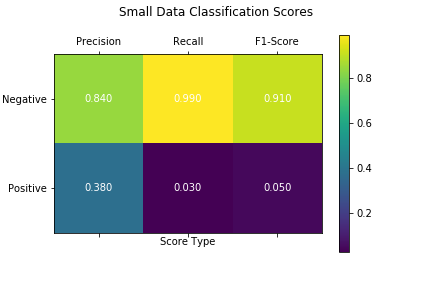
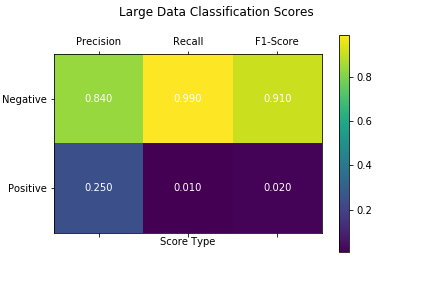
putting everything together in HTML

diff --git a/index.html b/index.html
@@ -1,0 +1,196 @@
+<!DOCTYPE html>
+<html lang="en">
+<title>Machine Learning Project</title>
+<meta charset="UTF-8">
+<meta name="viewport" content="width=device-width, initial-scale=1">
+<link rel="stylesheet" href="https://www.w3schools.com/w3css/4/w3.css">
+<link rel="stylesheet" href="https://fonts.googleapis.com/css?family=Poppins">
+<style>
+body,h1,h2,h3,h4,h5 {font-family: "Poppins", sans-serif}
+body {font-size:16px;}
+.w3-half img{margin-bottom:-6px;margin-top:16px;opacity:0.8;cursor:pointer}
+.w3-half img:hover{opacity:1}
+</style>
+<body>
+
+<!-- Sidebar/menu -->
+<nav class="w3-sidebar w3-red w3-collapse w3-top w3-large w3-padding" style="z-index:3;width:300px;font-weight:bold;" id="mySidebar"><br>
+  <a href="javascript:void(0)" onclick="w3_close()" class="w3-button w3-hide-large w3-display-topleft" style="width:100%;font-size:22px">Close Menu</a>
+  <div class="w3-container">
+    <h3 class="w3-padding-64"><b>Adsuspencor<br>Project</b></h3>
+  </div>
+  <div class="w3-bar-block">
+    <a href="#" onclick="w3_close()" class="w3-bar-item w3-button w3-hover-white">Home</a> 
+    <a href="#showcase" onclick="w3_close()" class="w3-bar-item w3-button w3-hover-white">The Data</a> 
+    <a href="#services" onclick="w3_close()" class="w3-bar-item w3-button w3-hover-white">Why Two Datasets</a> 
+    <a href="#designers" onclick="w3_close()" class="w3-bar-item w3-button w3-hover-white">Our Models</a> 
+    <a href="#packages" onclick="w3_close()" class="w3-bar-item w3-button w3-hover-white">Important Features</a> 
+    <a href="#contact" onclick="w3_close()" class="w3-bar-item w3-button w3-hover-white">Trees</a>
+  </div>
+</nav>
+
+<!-- Top menu on small screens -->
+<header class="w3-container w3-top w3-hide-large w3-red w3-xlarge w3-padding">
+  <a href="javascript:void(0)" class="w3-button w3-red w3-margin-right" onclick="w3_open()">☰</a>
+  <span>Company Name</span>
+</header>
+
+<!-- Overlay effect when opening sidebar on small screens -->
+<div class="w3-overlay w3-hide-large" onclick="w3_close()" style="cursor:pointer" title="close side menu" id="myOverlay"></div>
+
+<!-- !PAGE CONTENT! -->
+<div class="w3-main" style="margin-left:340px;margin-right:40px">
+
+  <!-- Header -->
+  <div class="w3-container" style="margin-top:80px" id="showcase">
+    <h1 class="w3-jumbo"><b>Loan Based Machine Learning</b></h1>
+    <h1 class="w3-xxxlarge w3-text-red"><b>The Data</b></h1>
+    <hr style="width:50px;border:5px solid red" class="w3-round">
+</h1>Predicting Loan Repayment</h1>
+<div class='tableauPlaceholder' id='viz1589920523051' style='position: relative'><noscript><a href='#'><img alt=' ' src='https:&#47;&#47;public.tableau.com&#47;static&#47;images&#47;Bo&#47;BootCampSpot-Project3-1stfile&#47;Story1&#47;1_rss.png' style='border: none' /></a></noscript><object class='tableauViz'  style='display:none;'><param name='host_url' value='https%3A%2F%2Fpublic.tableau.com%2F' /> <param name='embed_code_version' value='3' /> <param name='site_root' value='' /><param name='name' value='BootCampSpot-Project3-1stfile&#47;Story1' /><param name='tabs' value='no' /><param name='toolbar' value='yes' /><param name='static_image' value='https:&#47;&#47;public.tableau.com&#47;static&#47;images&#47;Bo&#47;BootCampSpot-Project3-1stfile&#47;Story1&#47;1.png' /> <param name='animate_transition' value='yes' /><param name='display_static_image' value='yes' /><param name='display_spinner' value='yes' /><param name='display_overlay' value='yes' /><param name='display_count' value='yes' /><param name='filter' value='publish=yes' /></object></div>                <script type='text/javascript'>                    var divElement = document.getElementById('viz1589920523051');                    var vizElement = divElement.getElementsByTagName('object')[0];                    vizElement.style.width='1016px';vizElement.style.height='991px';                    var scriptElement = document.createElement('script');                    scriptElement.src = 'https://public.tableau.com/javascripts/api/viz_v1.js';                    vizElement.parentNode.insertBefore(scriptElement, vizElement);                </script>
+  </div>
+  
+  <!-- Photo grid (modal) -->
+  
+
+  <!-- Modal for full size images on click-->
+  <div id="modal01" class="w3-modal w3-black" style="padding-top:0" onclick="this.style.display='none'">
+    <span class="w3-button w3-black w3-xxlarge w3-display-topright">×</span>
+    <div class="w3-modal-content w3-animate-zoom w3-center w3-transparent w3-padding-64">
+      <img id="img01" class="w3-image">
+      <p id="caption"></p>
+    </div>
+  </div>
+
+  <!-- Services -->
+  <div class="w3-container" id="services" style="margin-top:75px">
+    <h1 class="w3-xxxlarge w3-text-red"><b>Why Two Datasets</b></h1>
+    <hr style="width:50px;border:5px solid red" class="w3-round">
+    <p>You Probably noticed that we are showing off two Wildly different datasets. We decided to this mostly because of an early mistake.</p>
+    <p>We started out knowing we wanted to work with loan data, mostly Housing loan data. So we visited Kaggle and found a couple of options and after some discussion and poor 
+        attempt at eyeballing how many loans weren't paid back in one dataset (*cough cough* Spencer *cough*) we decided to go with the larger data set you saw above. We then went to work and created a classification 
+        model using random forest modeling. At this point we decided to take a look at the scores you will see below and we were not very impressed. After this disappointment, We decided to pivot 
+        and create a model from the other dataset to see if we could do better. Well after to putting together two models we decided to add this portion of the project were we compare and contrast the results
+        of our two models. So in the next section you will see a cautionary tail about picking the right dataset to create accurate models.
+    </p>
+  </div>
+  
+  <!-- Designers -->
+  <div class="w3-container" id="designers" style="margin-top:75px">
+    <h1 class="w3-xxxlarge w3-text-red"><b>Our Models</b></h1>
+    <hr style="width:50px;border:5px solid red" class="w3-round">
+    <p>Small Datasets Vs. Large Datasets</p>
+    <p>Below we add evidence to what we have been told about picking datasets for Machine Learning based more on the split between negative and positive outcomes and not necessarily based on
+        the size of the dataset. We also see a great example of how data is labeled can lead to confusion down the line.
+    </p>
+    <p><b>Our results in full living color.</b>:</p>
+  </div>
+
+  <!-- The Team -->
+  <div class="w3-row-padding w3-grayscale">
+    <div class="w3-col m6 w3-margin-bottom">
+      <div class="w3-light-grey">
+        <img src="/RandomForestCharts/LargeDataScores.png" alt="LargeDataScores" style="width:100%">
+        <div class="w3-container">
+          
+          <h3 class="w3-opacity">Large Dataset Classification Report</h3>
+          <p>As you can see from the scores our model does a great job of predicting people who have back their loans(negative not fully paid), but when we look at how accurate it is 
+              at predicting that someone will not pay back their loans(positive not fully paid(I'm still not entirely sure I have that right)) out scores are very low. This makes sense since 
+              the model has around 6000 values that come back negative and only about 1500 values that are positive.</p>
+        </div>
+      </div>
+    </div>
+    <div class="w3-col m6 w3-margin-bottom">
+      <div class="w3-light-grey">
+        <img src="/RandomForestCharts/SmallDataScores.png" alt="SmallDataScores" style="width:100%">
+        <div class="w3-container">
+          
+          <h3 class="w3-opacity">Small Dataset Classification Report</h3>
+          <p>Here we are looking at the smaller dataset and as you can see our scoring has gotten much better most likely because instead of having roughly 18% of our dataset being negative
+                roughly 33% of our dataset covers negative values. Now some Jeffsums to fill up the container. Checkmate... Life finds a way. What do they got in there? King Kong? 
+                Hey, take a look at the earthlings. Goodbye! Must go faster.
+          </p>
+        </div>
+      </div>
+    </div>
+    <div class="w3-row-padding w3-grayscale"></div>
+        <div class="w3-col m6 w3-margin-bottom">
+            <div class="w3-light-grey">
+                <img src="/RandomForestCharts/LargeDataPie.png" alt="LargeDataPie" style="width:100%">
+            <div class="w3-container">
+          
+            <h3 class="w3-opacity">Large Dataset Features of Importance</h3>
+             <p>This shows how much weight our model puts on item in the model. Interestingly many of the features seem to hold weight in our large model. More on These Weights Below</p>
+            </div>
+        </div>
+    </div>
+      <div class="w3-col m6 w3-margin-bottom">
+        <div class="w3-light-grey">
+          <img src="/RandomForestCharts/SmallDataPie.png" alt="SmallDataPie" style="width:100%">
+          <div class="w3-container">
+            <h3 class="w3-opacity">Small Dataset Features of Importance</h3>
+            <p>While our smaller dataset's model shows more variance in the importance of each variable included in its construction.</p>
+          </div>
+        </div>
+    </div>
+  </div>
+
+  <!-- Packages / Pricing Tables -->
+  <div class="w3-container" id="packages" style="margin-top:75px">
+    <h1 class="w3-xxxlarge w3-text-red"><b>Important Features</b></h1>
+    <hr style="width:50px;border:5px solid red" class="w3-round">
+    
+  </div>
+
+  <div class="w3-row-padding">
+    <div class="w3-half w3-margin-bottom">
+
+    </div>
+  </div>
+  
+  <!-- Contact -->
+  <div class="w3-container" id="contact" style="margin-top:75px">
+    <h1 class="w3-xxxlarge w3-text-red"><b>Trees</b></h1>
+    <hr style="width:50px;border:5px solid red" class="w3-round">
+    
+      <div class="w3-section">
+        <h3 class="w3-opacity">Large Dataset</h3>
+       <img src = "/RandomForestCharts/tree.dot.png" alt="largeDataTree" style = "width:100%">
+      </div>
+      <div class="w3-section">
+        <h3 class="w3-opacity">Small Dataset</h3>
+        <img src = "/RandomForestCharts/smalltree.dot.png" alt="smallDataTree" style = "width:100%">
+      </div>
+      <div class="w3-section">
+      
+  </div>
+
+<!-- End page content -->
+</div>
+
+<!-- W3.CSS Container -->
+<div class="w3-light-grey w3-container w3-padding-32" style="margin-top:75px;padding-right:58px"><p class="w3-right">Powered by <a href="https://www.w3schools.com/w3css/default.asp" title="W3.CSS" target="_blank" class="w3-hover-opacity">w3.css</a></p></div>
+
+<script>
+// Script to open and close sidebar
+function w3_open() {
+  document.getElementById("mySidebar").style.display = "block";
+  document.getElementById("myOverlay").style.display = "block";
+}
+ 
+function w3_close() {
+  document.getElementById("mySidebar").style.display = "none";
+  document.getElementById("myOverlay").style.display = "none";
+}
+
+// Modal Image Gallery
+function onClick(element) {
+  document.getElementById("img01").src = element.src;
+  document.getElementById("modal01").style.display = "block";
+  var captionText = document.getElementById("caption");
+  captionText.innerHTML = element.alt;
+}
+</script>
+
+</body>
+</html>
